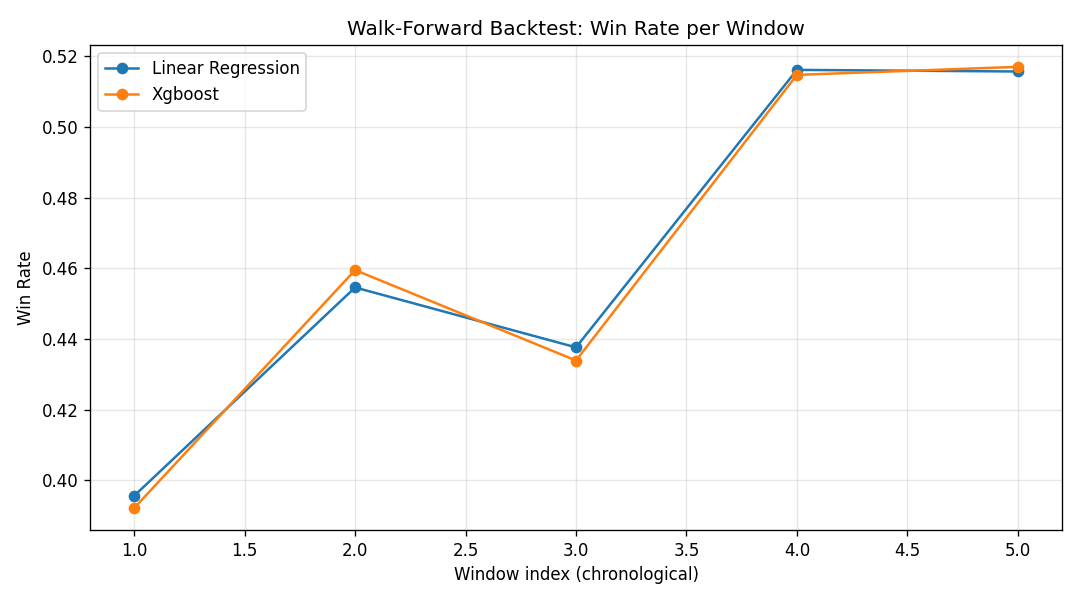
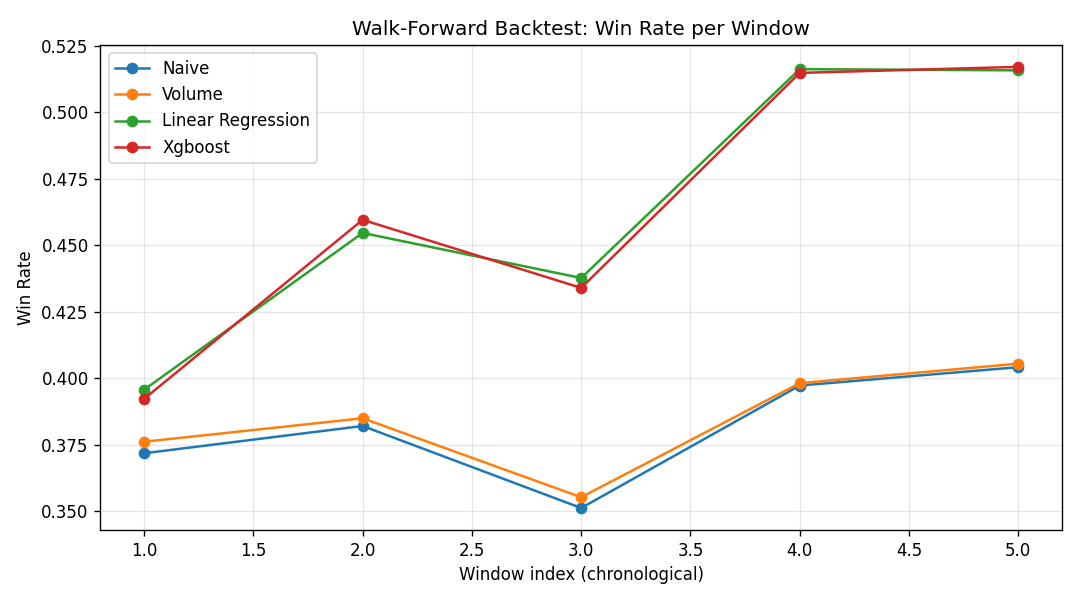
feat(walk-forward): add Naive + Volume baselines (and GRU/LSTM on SCC)
The previous version only plotted LR + XGBoost which were nearly
identical (same line). Added Naive and Volume baselines to show the
REAL separation — the edge over naive strategies is the story.

Naive and Volume baselines sit at Sharpe 0.08-0.22 across all windows
while LR/XGBoost sit at 0.37-0.51. The gap is the ML edge, visible
clearly on the plots.

GRU/LSTM included via conditional import (runs when torch available
on SCC, skipped locally).

diff --git a/experiments/run_walk_forward.py b/experiments/run_walk_forward.py
@@ -39,6 +39,8 @@ import matplotlib.pyplot as plt  # noqa: E402
 
 from src.features.engineering import compute_derived_features  # noqa: E402
 from src.models.linear_regression import LinearRegressionPredictor  # noqa: E402
+from src.models.naive import NaivePredictor  # noqa: E402
+from src.models.volume import VolumePredictor  # noqa: E402
 from src.models.xgboost_model import XGBoostPredictor  # noqa: E402
 
 logger = logging.getLogger(__name__)
@@ -151,11 +153,24 @@ def run_walk_forward(
     windows = _make_windows(df, n_windows)
     logger.info("Windows: %d spans of %d seconds each", n_windows, windows[0][1] - windows[0][0])
 
-    # Model factories so we get a fresh model at each window
-    model_factories = {
+    # Model factories so we get a fresh model at each window.
+    # Baselines (Naive, Volume) included to show the edge over naive strategies.
+    # GRU/LSTM included if torch is available.
+    model_factories: dict[str, callable] = {
+        "naive": NaivePredictor,
+        "volume": VolumePredictor,
         "linear_regression": LinearRegressionPredictor,
         "xgboost": XGBoostPredictor,
     }
+
+    try:
+        from src.models.gru import GRUPredictor  # noqa: WPS433
+        from src.models.lstm import LSTMPredictor  # noqa: WPS433
+        model_factories["gru"] = GRUPredictor
+        model_factories["lstm"] = LSTMPredictor
+        logger.info("torch available — including GRU + LSTM")
+    except ImportError:
+        logger.info("torch not available — skipping Tier 2")
 
     all_results = []
 
